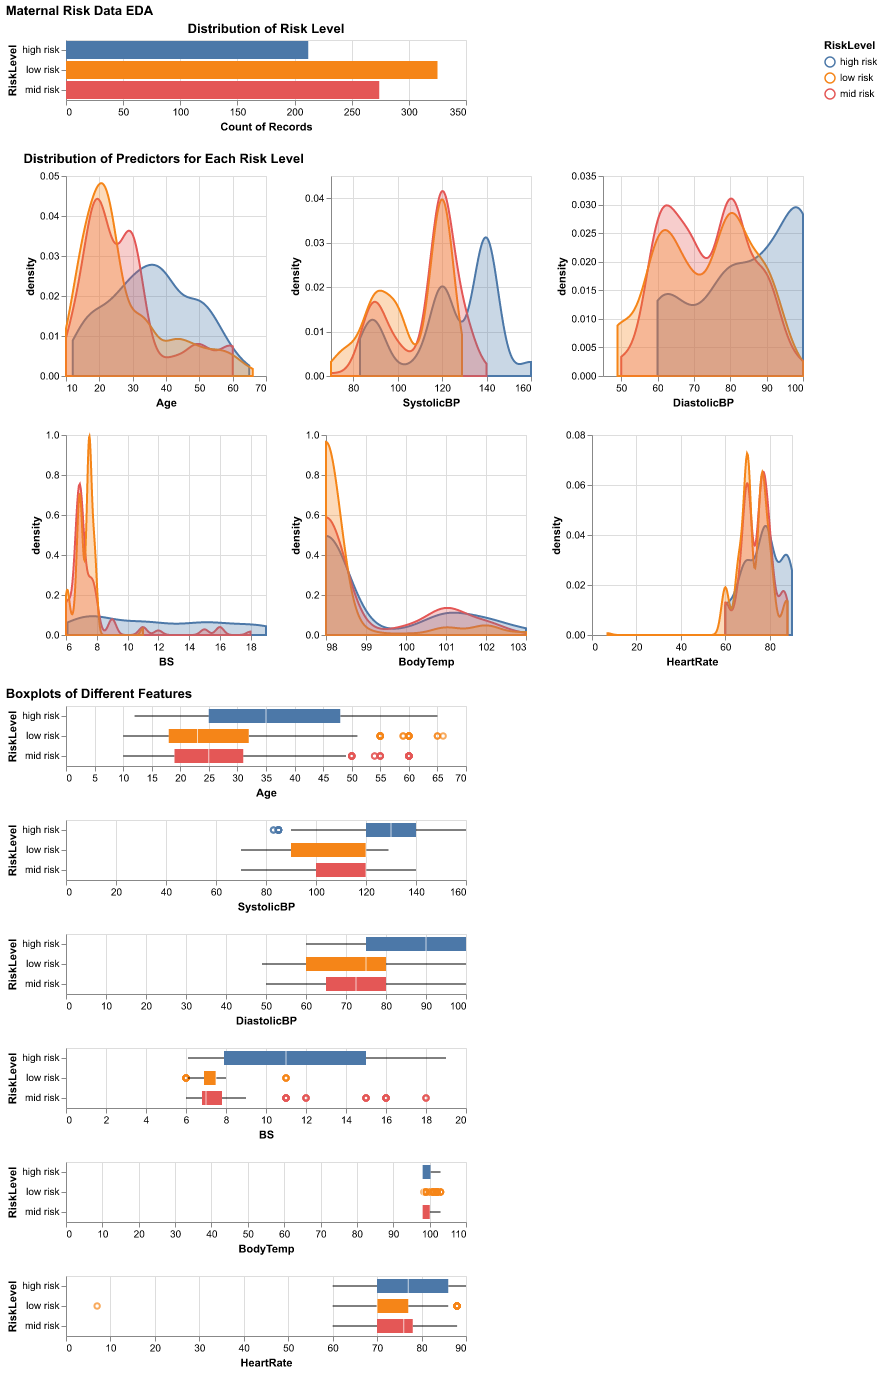
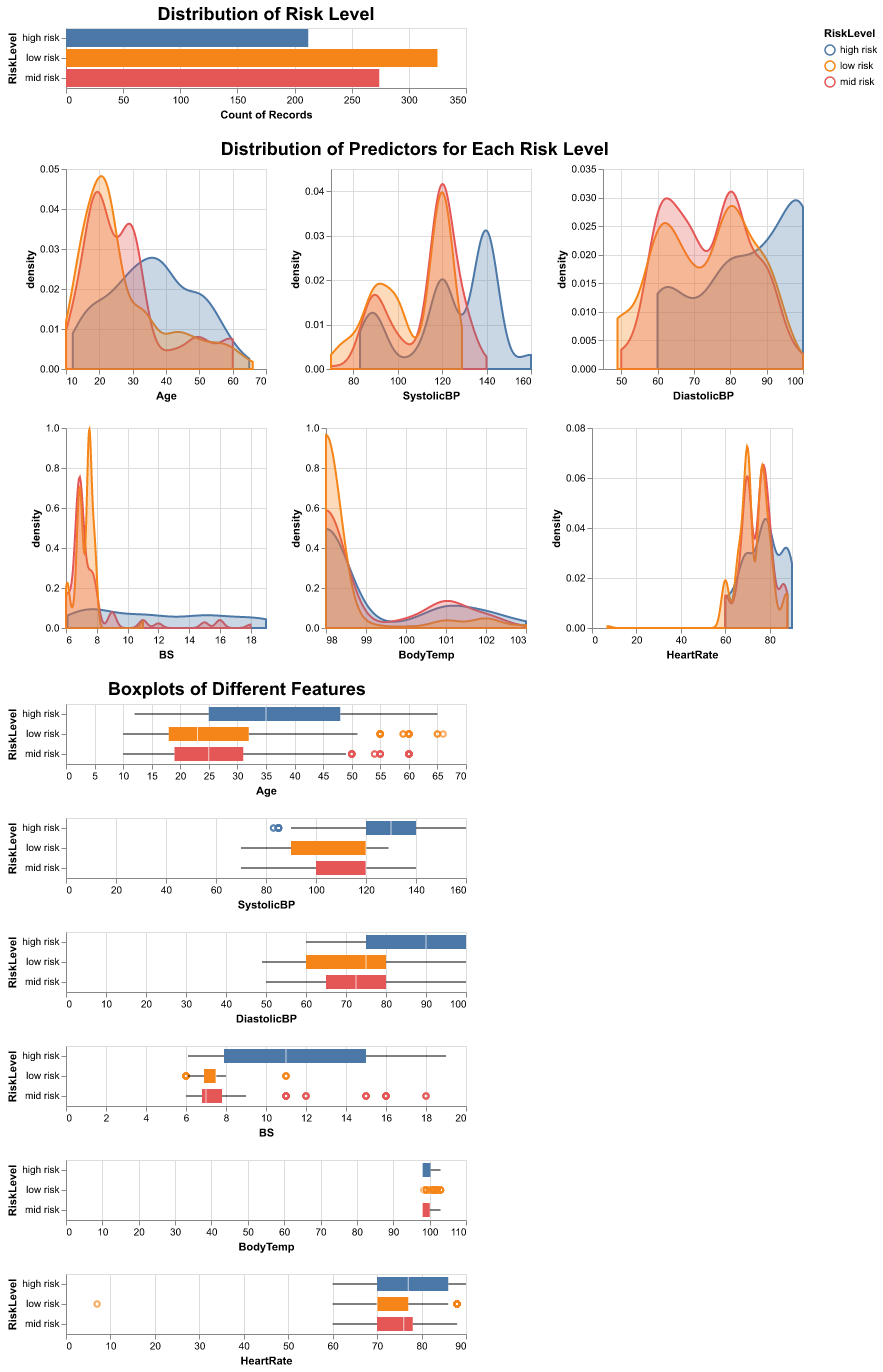
updated title alignment for png

diff --git a/src/eda_script.py b/src/eda_script.py
@@ -58,7 +58,8 @@ def main(data_location, output_location):
     
     X_box = (Age & SystolicBP & DiastolicBP & BS & BodyTemp & HeartRate).properties(title='Boxplots of Different Features')
 
-    combined = (class_distribution & X_density & X_box).properties(title = 'Maternal Risk Data EDA')
+    combined = (class_distribution & X_density & X_box).configure_title(
+        fontSize=18, anchor='middle')
 
     
     def save_chart(chart, filename, scale_factor=1):
